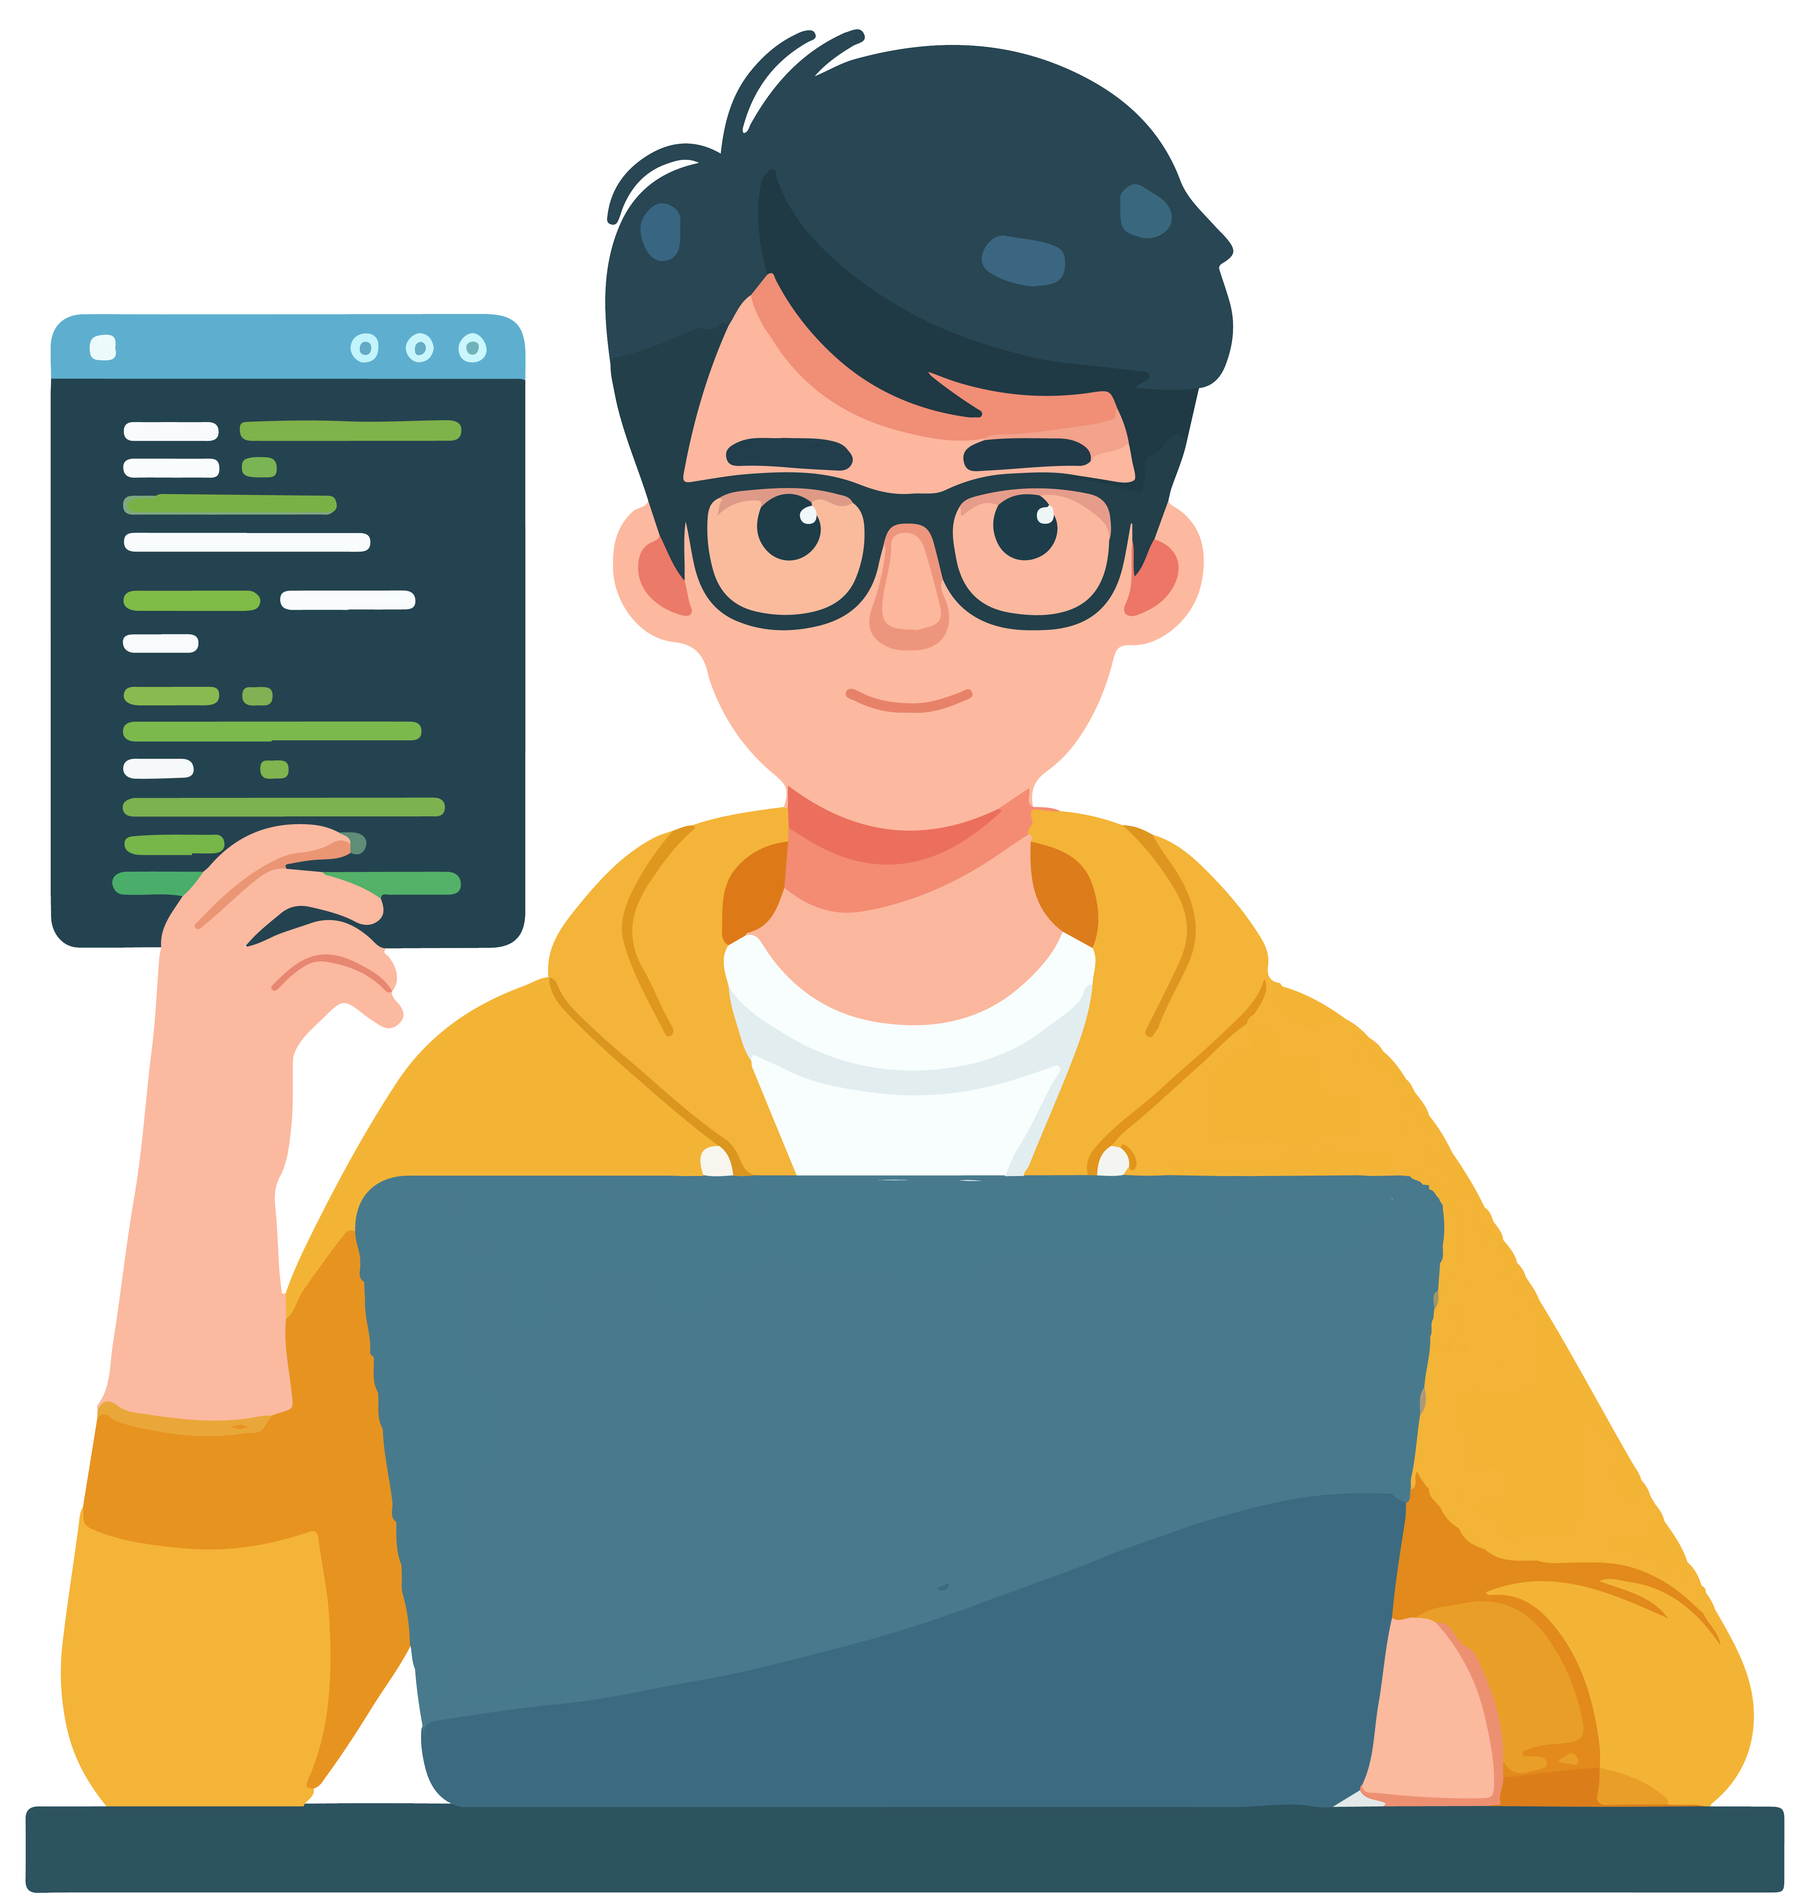
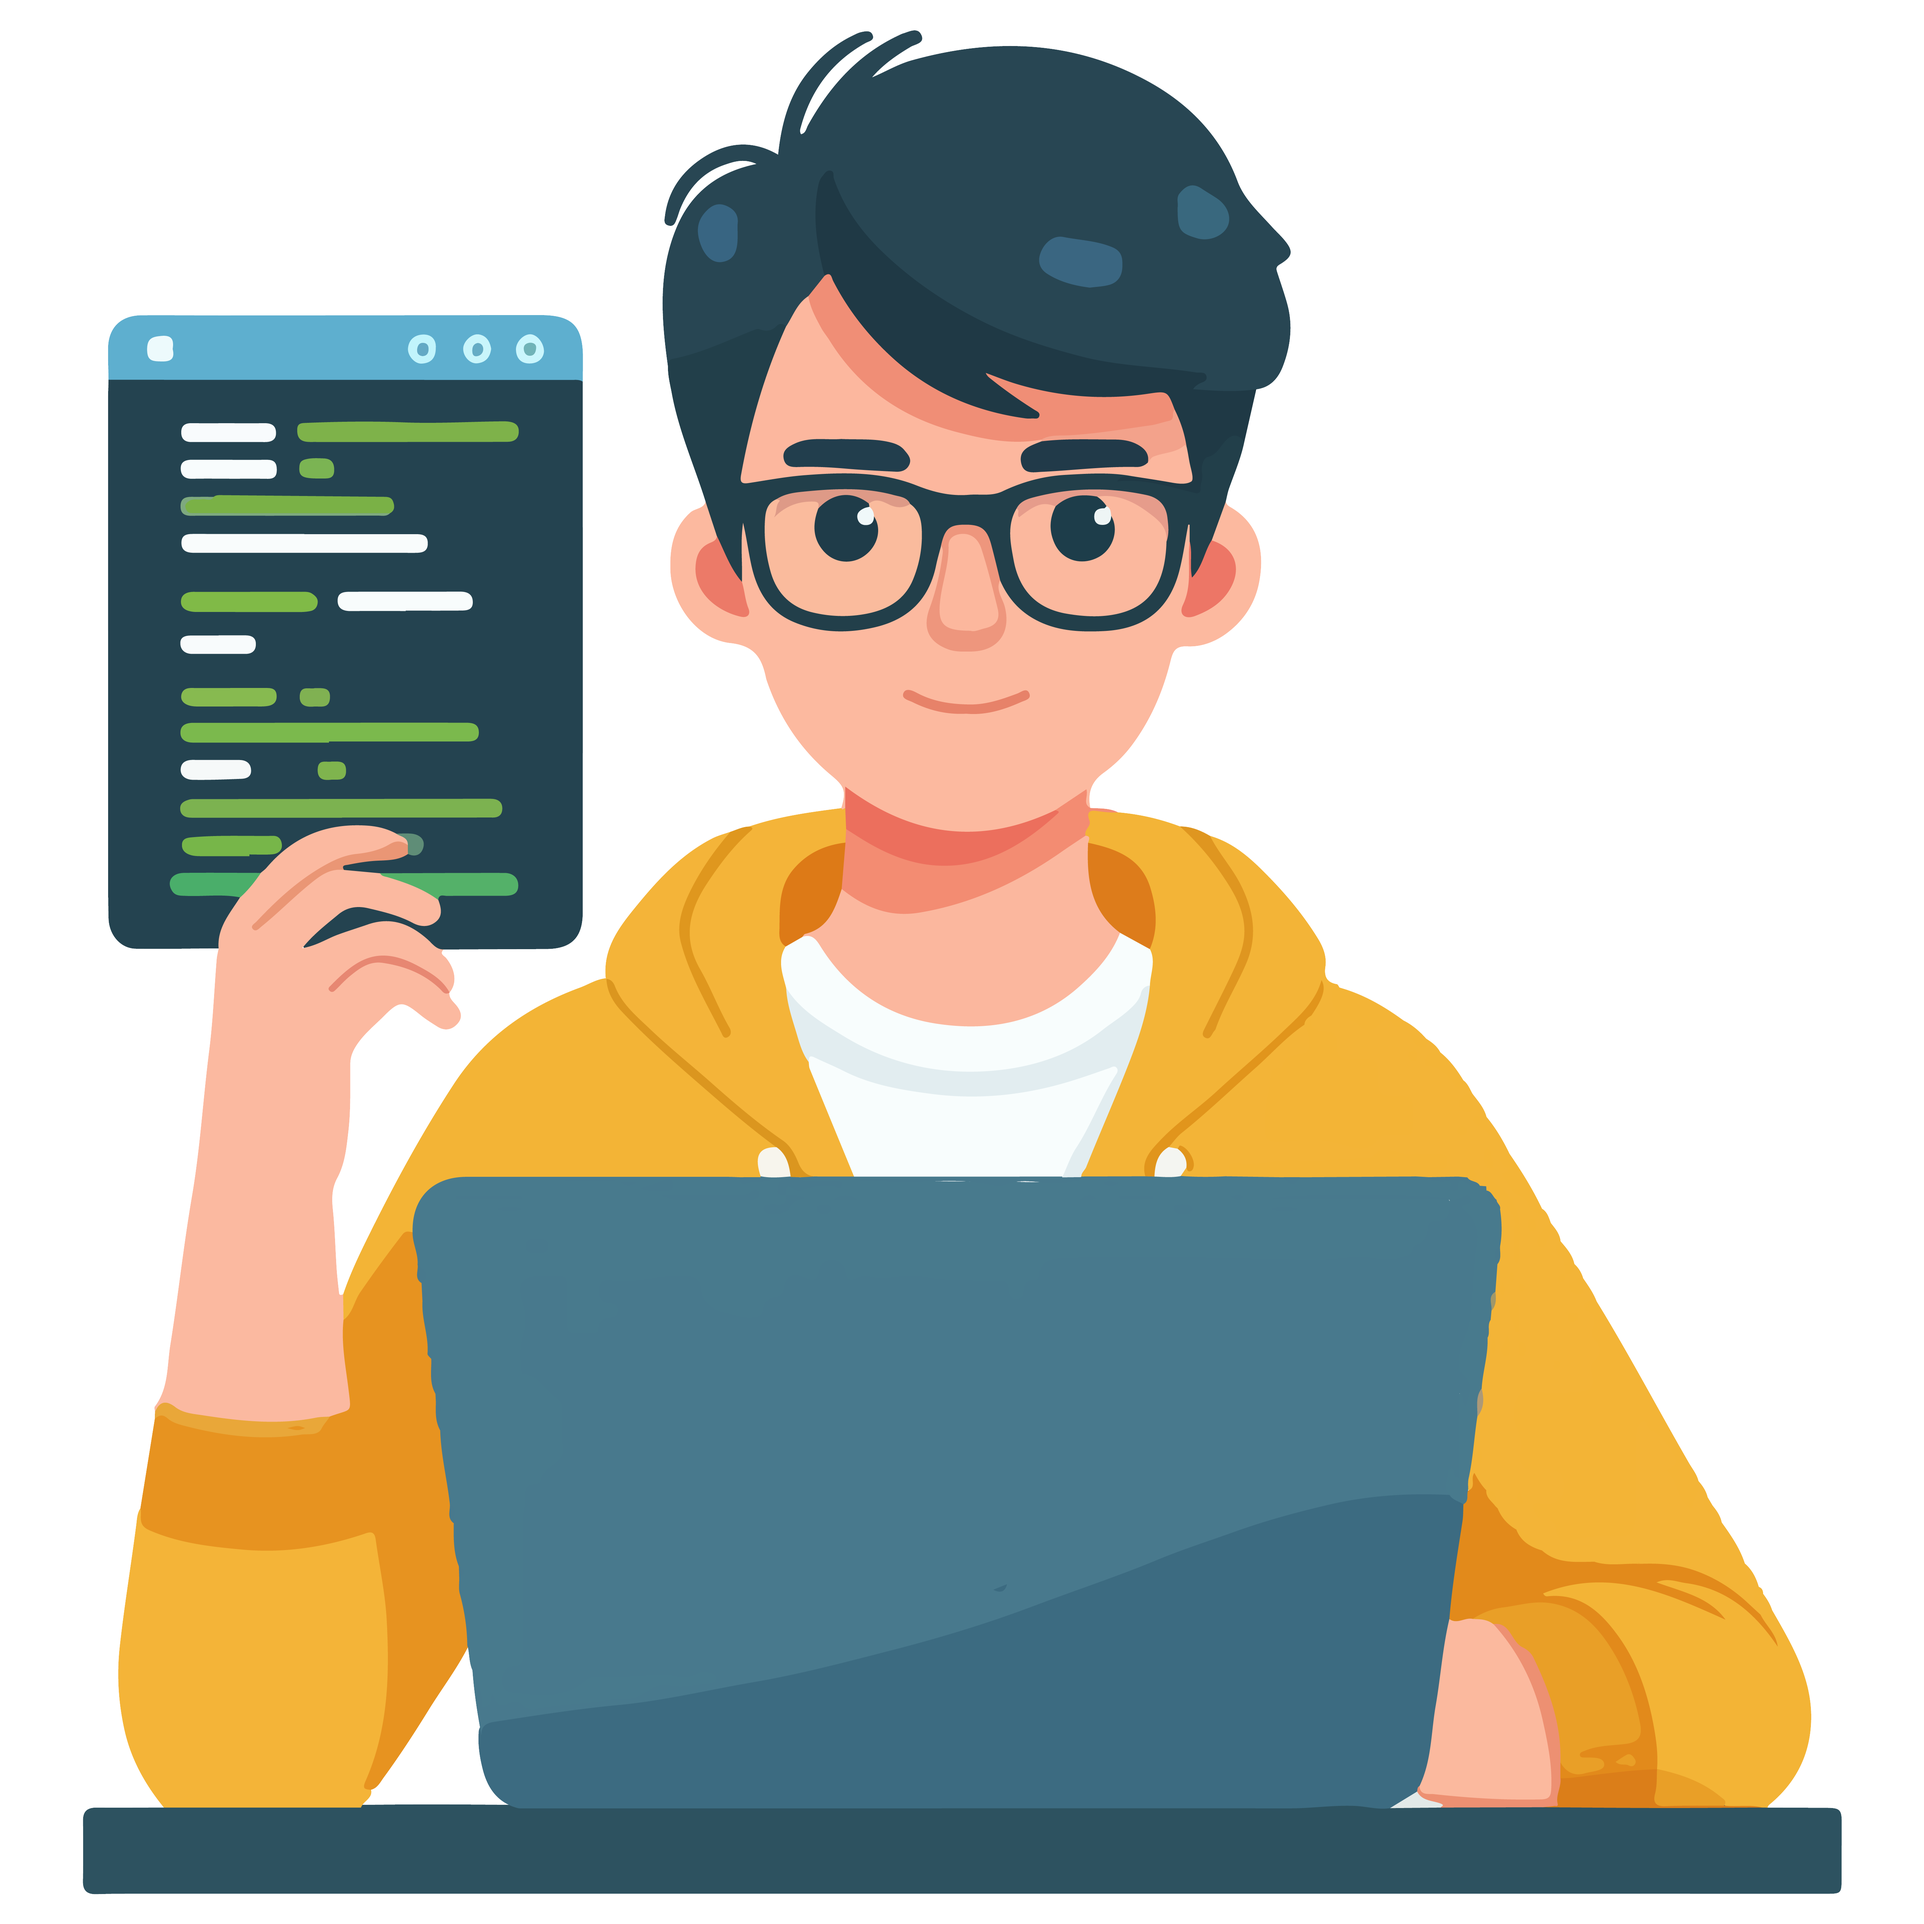
Fixed Mobile view

diff --git a/Section 13 Capstone Project 2 - Personal Site/style.css b/Section 13 Capstone Project 2 - Personal Site/style.css
@@ -1,3 +1,7 @@
+* {
+  margin: 0;
+}
+
 body {
   background-color: #2da1eb;
 }
@@ -25,7 +29,6 @@ body {
 
 .Summary {
   background-color: #2da1eb;
-  height: 860px;
 }
 .Summary p {
   color: #ffffff;
@@ -52,29 +55,6 @@ body {
   font-family: "Syne Mono", monospace;
   font-size: 3rem;
   font-weight: 550;
-}
-
-@keyframes side-to-side {
-  0% {
-    left: 0px;
-    top: 0px;
-  }
-  25% {
-    left: 5px;
-    top: 0px;
-  }
-  50% {
-    left: 0px;
-    top: 0px;
-  }
-  75% {
-    left: -5px;
-    top: 0px;
-  }
-  100% {
-    left: 0px;
-    top: 0px;
-  }
 }
 
 @keyframes up-down {
@@ -113,28 +93,17 @@ body {
 }
 
 #img-dev {
-  display: flex;
-  margin-left: 7%;
-  height: 440px;
-  float: left;
-}
-
-#img-dev:hover {
-  display: flex;
-  margin-left: 7%;
-  height: 440px;
-  float: left;
   position: relative;
-  animation-name: side-to-side;
-  animation-duration: 3s;
-  animation-iteration-count: infinite;
-  animation-timing-function: linear;
+}
+#img-dev img {
+  height: 440px;
 }
 
 .Education {
   background-color: #238ad1;
   padding-top: 5.5rem;
   padding-bottom: 3rem;
+  clear: both;
 }
 .Education p {
   font-family: "Quicksand", serif;
@@ -209,6 +178,9 @@ body {
   text-align: center;
 }
 
+.container1 {
+  text-align: center;
+}
 .sticker {
   height: 200px;
   width: 200px;
@@ -234,7 +206,6 @@ body {
 
 .ContactMe {
   background-color: #0e5da0;
-  height: 200px;
 }
 
 .ContactMe .logo:hover {
@@ -287,24 +258,11 @@ body {
     display: none;
   }
   #img-dev {
+    width: 100%;
+    display: flex;
+    justify-content: center;
+    padding: 0;
     margin: 0;
-    display: flex;
-    padding-left: 34%;
-    padding-right: 34%;
-    margin-top: 25px;
-    height: 440px;
-    float: none;
-  }
-  #img-dev:hover {
-    display: flex;
-    margin-left: 7%;
-    height: 440px;
-    float: left;
-    position: relative;
-    animation-name: side-to-side;
-    animation-duration: 3s;
-    animation-iteration-count: infinite;
-    animation-timing-function: linear;
   }
 }
 
@@ -312,26 +270,9 @@ body {
 }
 
 @media (width <= 992px) {
-  #img-dev {
-    margin: 0;
-    display: flex;
-    padding-left: 30%;
-    padding-right: 34%;
-    margin-top: 25px;
-    height: 440px;
-    float: none;
-  }
 }
 
 @media (width <= 768px) {
-  #img-dev {
-    margin: 0;
-    display: flex;
-    padding-left: 20%;
-    margin-top: 25px;
-    height: 440px;
-    float: none;
-  }
   .Education {
     padding-top: 1rem;
   }
@@ -343,6 +284,18 @@ body {
   }
 }
 
+@media (width <= 650px) {
+  .AboutMe .likes {
+    display: block;
+    text-align: center;
+  }
+  .sticker {
+    height: 300px;
+    width: 300px;
+    border: 10px solid #2da1eb;
+  }
+}
+
 @media (width <= 576px) {
   #name p {
     text-align: center;
@@ -350,12 +303,55 @@ body {
   #sum p {
     text-align: center;
   }
+}
+
+@media (max-width: 576px) and (min-width: 441px) {
+  /* … */
+  #name {
+    padding-top: 2rem;
+  }
+  #name p {
+    padding-top: 0;
+    text-align: center;
+  }
+  #sum p {
+    font-size: 1.5rem;
+    text-align: center;
+  }
+
   #img-dev {
-    margin: 0;
-    display: flex;
-    padding-left: 20%;
-    margin-top: 25px;
-    height: 350px;
-    float: none;
+    height: 440px;
+  }
+  #img-dev img {
+    width: 100%;
+  }
+}
+
+@media (max-width: 441px) {
+  #name {
+    padding-top: 2rem;
+  }
+  #name p {
+    padding-top: 0;
+    text-align: center;
+  }
+  #sum p {
+    font-size: 1.5rem;
+    text-align: center;
+  }
+  #img-dev {
+    height: 400px;
+    margin-bottom: 3rem;
+  }
+  #img-dev img {
+    width: 100%;
+  }
+  #sum p {
+    font-size: 1.2rem;
+  }
+  .sticker {
+    height: 200px;
+    width: 200px;
+    border: 10px solid #2da1eb;
   }
 }

diff --git a/Section 13 Capstone Project 2 - Personal Site/index.html b/Section 13 Capstone Project 2 - Personal Site/index.html
@@ -37,7 +37,7 @@
             <div id="img-work"><img src="./assest/images/work-desk.png" alt="Workspace"></div>
             <div id="name"><p>Vatsal Patel</p></div>
             <div id="sum"><p>Upcoming Full Stack Web Developer</p></div>
-            <div class="container-fluid"><div id="img-dev"><img src="./assest/images/developer.png" alt="dev showing code"></div></div>
+            <div id="img-dev"><img src="./assest/images/developer.png" alt="dev showing code"></div>
         </div>
    </section>
 
@@ -153,7 +153,7 @@
 
 
    <section id="AboutMe" class="AboutMe">
-    <div class="container py-5">
+    <div class="container1 py-5">
         <div class="h2"><h2>About Me</h2></div>
         <div class="likes tea">
             <img src="./assest/images/tea.jpg" class="sticker">
